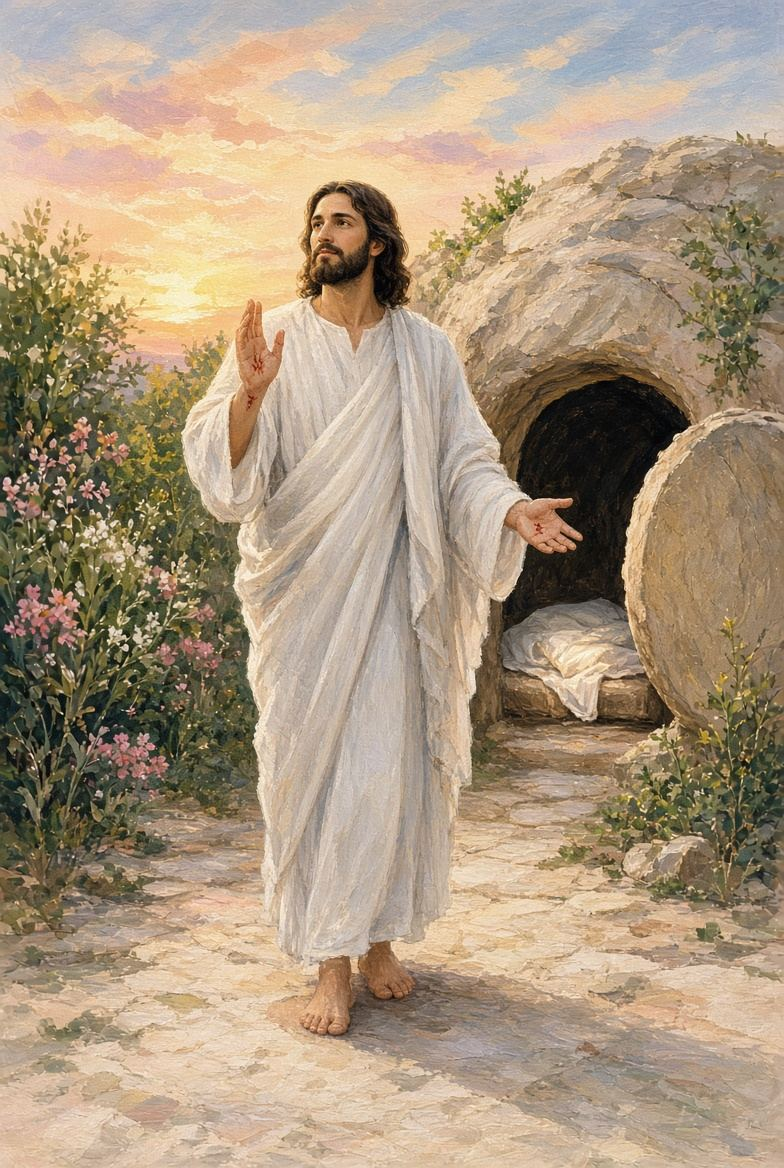
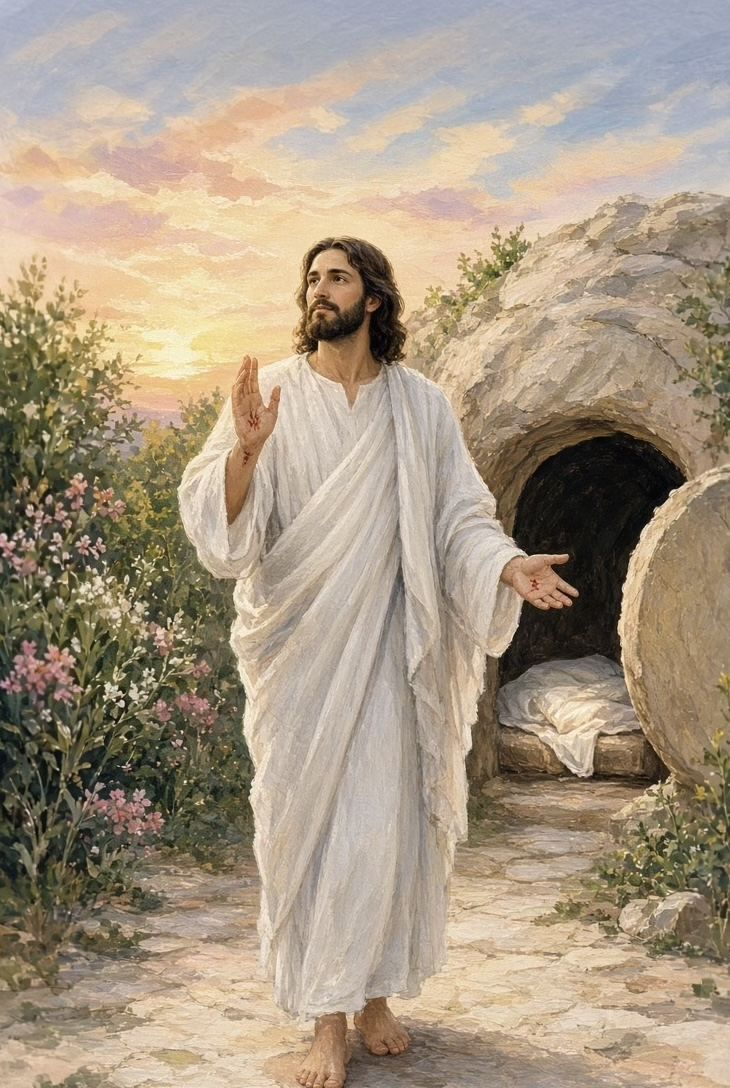
Prueba: ilustraciones hasta arriba de la pantalla, con las versiones nuevas de once misterios

diff --git a/Estilos.css b/Estilos.css
@@ -43,9 +43,10 @@ button{font:inherit;color:inherit;background:none;border:0;cursor:pointer;text-a
    y con "solo el nombre" queda casi toda a la vista. El borde de abajo queda siempre debajo
    del texto (150 px es menos que el pie más corto), para que no se vea la costura. */
 .rezo .hero{bottom:150px}
-/* La imagen arranca debajo de la isla del iPhone y de los botones de arriba, con el borde
-   fundido en el fondo, y el acercamiento crece hacia abajo para no esconder las caras. */
-.arte{position:absolute;left:0;right:0;top:calc(var(--seguro) + 24px + var(--extra,0px));height:100%;background-size:cover;background-repeat:no-repeat;transform:scale(var(--z,1));transform-origin:50% 0;opacity:0;transition:opacity 1s ease;-webkit-mask-image:linear-gradient(180deg,transparent 0,#000 72px);mask-image:linear-gradient(180deg,transparent 0,#000 72px)}
+/* Las pinturas arrancan debajo de la isla del iPhone y de los botones de arriba, con el borde
+   fundido en el fondo. Las ilustraciones (--pleno:1) van hasta arriba de la pantalla, porque están
+   hechas con aire arriba. El acercamiento crece hacia abajo para no esconder las caras. */
+.arte{position:absolute;left:0;right:0;top:calc((1 - var(--pleno,0))*(var(--seguro) + 24px + var(--extra,0px)));height:100%;background-size:cover;background-repeat:no-repeat;transform:scale(var(--z,1));transform-origin:50% 0;opacity:0;transition:opacity 1s ease;-webkit-mask-image:linear-gradient(180deg,rgba(0,0,0,var(--pleno,0)) 0,#000 72px);mask-image:linear-gradient(180deg,rgba(0,0,0,var(--pleno,0)) 0,#000 72px)}
 .arte.on{opacity:1}
 .fundido{position:absolute;inset:-1px 0;background:linear-gradient(180deg,rgba(var(--rgb),.15) 0%,rgba(var(--rgb),0) 26%,rgba(var(--rgb),.72) 64%,rgba(var(--rgb),.96) 84%,var(--bg) 97%)}
 /* De día, fundir hacia el blanco desde tan arriba lava la imagen: se funde recién al final. */
@@ -201,6 +202,8 @@ button{font:inherit;color:inherit;background:none;border:0;cursor:pointer;text-a
 .pv{--alto-arte:72dvh;overflow:clip}
 .pv.larga{--alto-arte:48dvh}
 .pv .hero{inset:0 0 auto 0;height:var(--alto-arte)}
+/* La barra de arriba es sólida: la imagen arranca debajo, también la ilustración. */
+.pv .arte{--pleno:0 !important}
 /* Arriba, un fondo que se funde, para que el texto no pase por detrás de la × al desplazarse. */
 .pv .barra{position:sticky;top:0;padding-bottom:14px;background:linear-gradient(180deg,var(--bg) calc(100% - 30px),rgba(var(--rgb),0))}
 .pv .barra + .aire{margin-top:-14px}

diff --git a/App.js b/App.js
@@ -466,7 +466,8 @@ function precargar(mis) {
 }
 function estiloArte(mis) {
   if (cfg.imagenes === 'ninguna') return luz(grupoDe(mis)) + ';--z:1;top:0;-webkit-mask-image:none;mask-image:none';
-  if (cfg.imagenes === 'ilustraciones' && mis.ilustracion) return `background-image:url('${mis.ilustracion}');background-position:50% 30%;--z:1;--extra:${mis.bajarIlustracion || 0}px`;
+  // Ancladas arriba: si la pantalla las recorta, que sea abajo, donde va el texto, y no el aire de arriba.
+  if (cfg.imagenes === 'ilustraciones' && mis.ilustracion) return `background-image:url('${mis.ilustracion}');background-position:50% 0;--z:1;--pleno:1;--extra:${mis.bajarIlustracion || 0}px`;
   return `background-image:url('${mis.imagen}');background-position:${mis.foco};--z:${mis.zoom}`;
 }
 const conCredito = mis => cfg.imagenes === 'pinturas' || (cfg.imagenes === 'ilustraciones' && !mis.ilustracion);

diff --git a/index.html b/index.html
@@ -9,12 +9,12 @@
 <title>Rosario</title>
 <link rel="preload" href="Fuentes/Manrope.woff2" as="font" type="font/woff2" crossorigin>
 <link rel="preload" href="Fuentes/Spectral-Light.woff2" as="font" type="font/woff2" crossorigin>
-<link rel="stylesheet" href="Estilos.css?v=6674f38b">
+<link rel="stylesheet" href="Estilos.css?v=ca7d3e9e">
 </head>
 <body class="noche">
 <main id="app"></main>
-<script src="Datos.js?v=6674f38b"></script>
-<script src="Audios.js?v=6674f38b"></script>
-<script src="App.js?v=6674f38b"></script>
+<script src="Datos.js?v=ca7d3e9e"></script>
+<script src="Audios.js?v=ca7d3e9e"></script>
+<script src="App.js?v=ca7d3e9e"></script>
 </body>
 </html>
